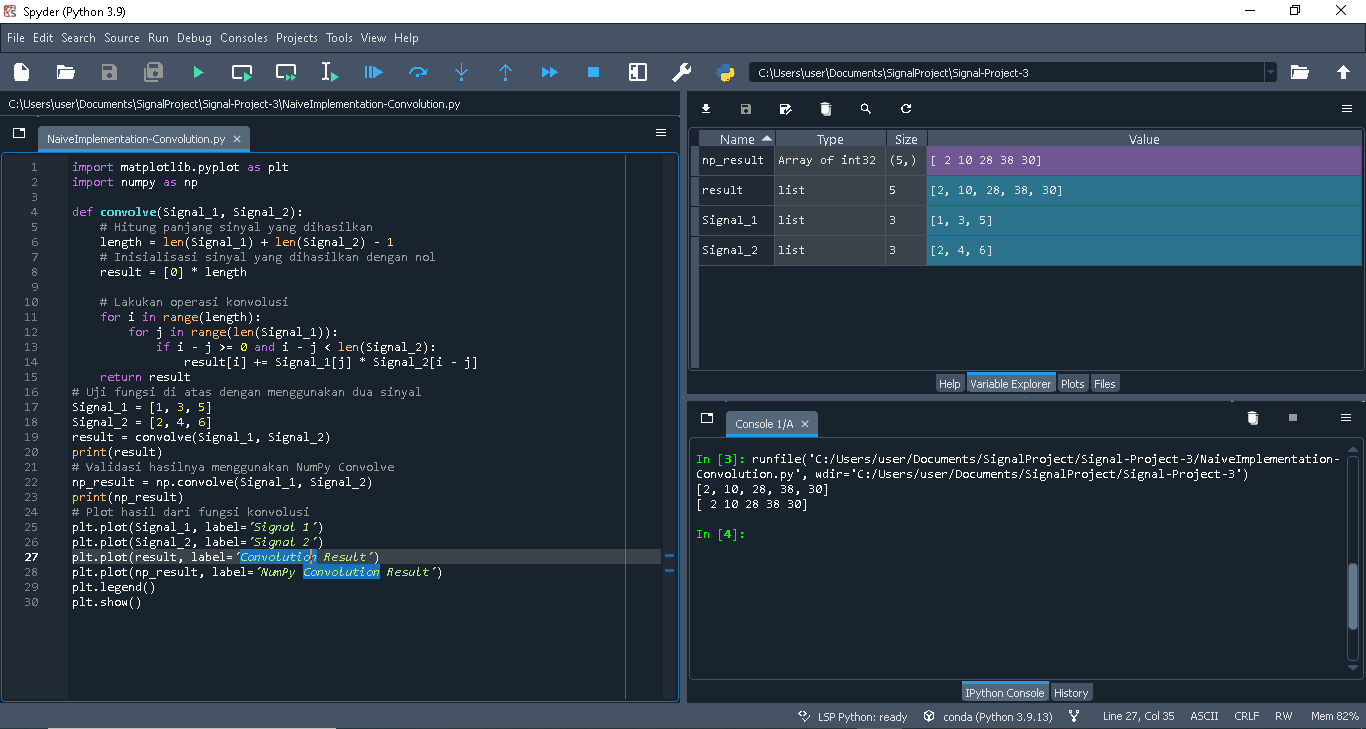
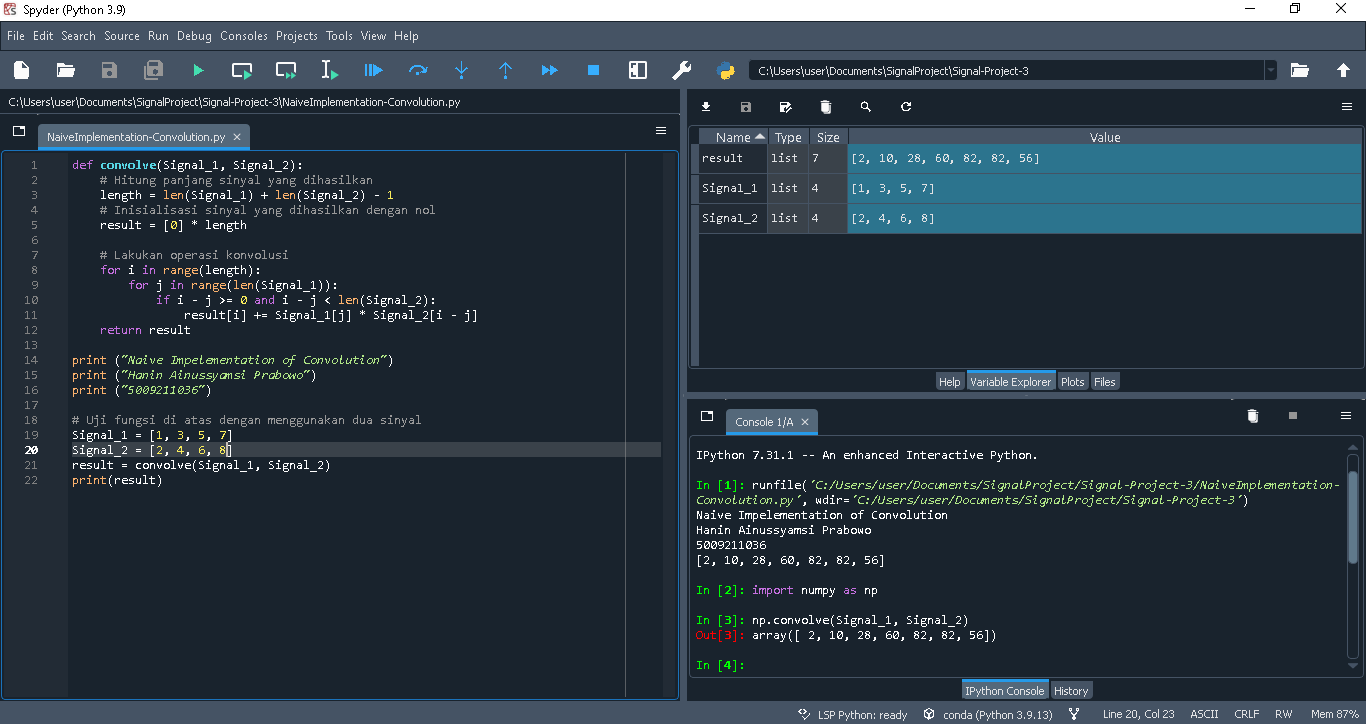
Signal Project 3

diff --git a/Signal-Project-3/NaiveImplementation-Convolution.py b/Signal-Project-3/NaiveImplementation-Convolution.py
@@ -1,6 +1,3 @@
-import matplotlib.pyplot as plt
-import numpy as np
-
 def convolve(Signal_1, Signal_2):
     # Hitung panjang sinyal yang dihasilkan
     length = len(Signal_1) + len(Signal_2) - 1
@@ -13,18 +10,13 @@ def convolve(Signal_1, Signal_2):
             if i - j >= 0 and i - j < len(Signal_2):
                 result[i] += Signal_1[j] * Signal_2[i - j]
     return result
+
+print ("Naive Impelementation of Convolution")
+print ("Hanin Ainussyamsi Prabowo")
+print ("5009211036")
+
 # Uji fungsi di atas dengan menggunakan dua sinyal
-Signal_1 = [1, 3, 5]
-Signal_2 = [2, 4, 6]
+Signal_1 = [1, 3, 5, 7]
+Signal_2 = [2, 4, 6, 8]
 result = convolve(Signal_1, Signal_2)
 print(result)
-# Validasi hasilnya menggunakan NumPy Convolve
-np_result = np.convolve(Signal_1, Signal_2)
-print(np_result)
-# Plot hasil dari fungsi konvolusi
-plt.plot(Signal_1, label='Signal 1')
-plt.plot(Signal_2, label='Signal 2')
-plt.plot(result, label='Convolution Result')
-plt.plot(np_result, label='NumPy Convolution Result')
-plt.legend()
-plt.show()
